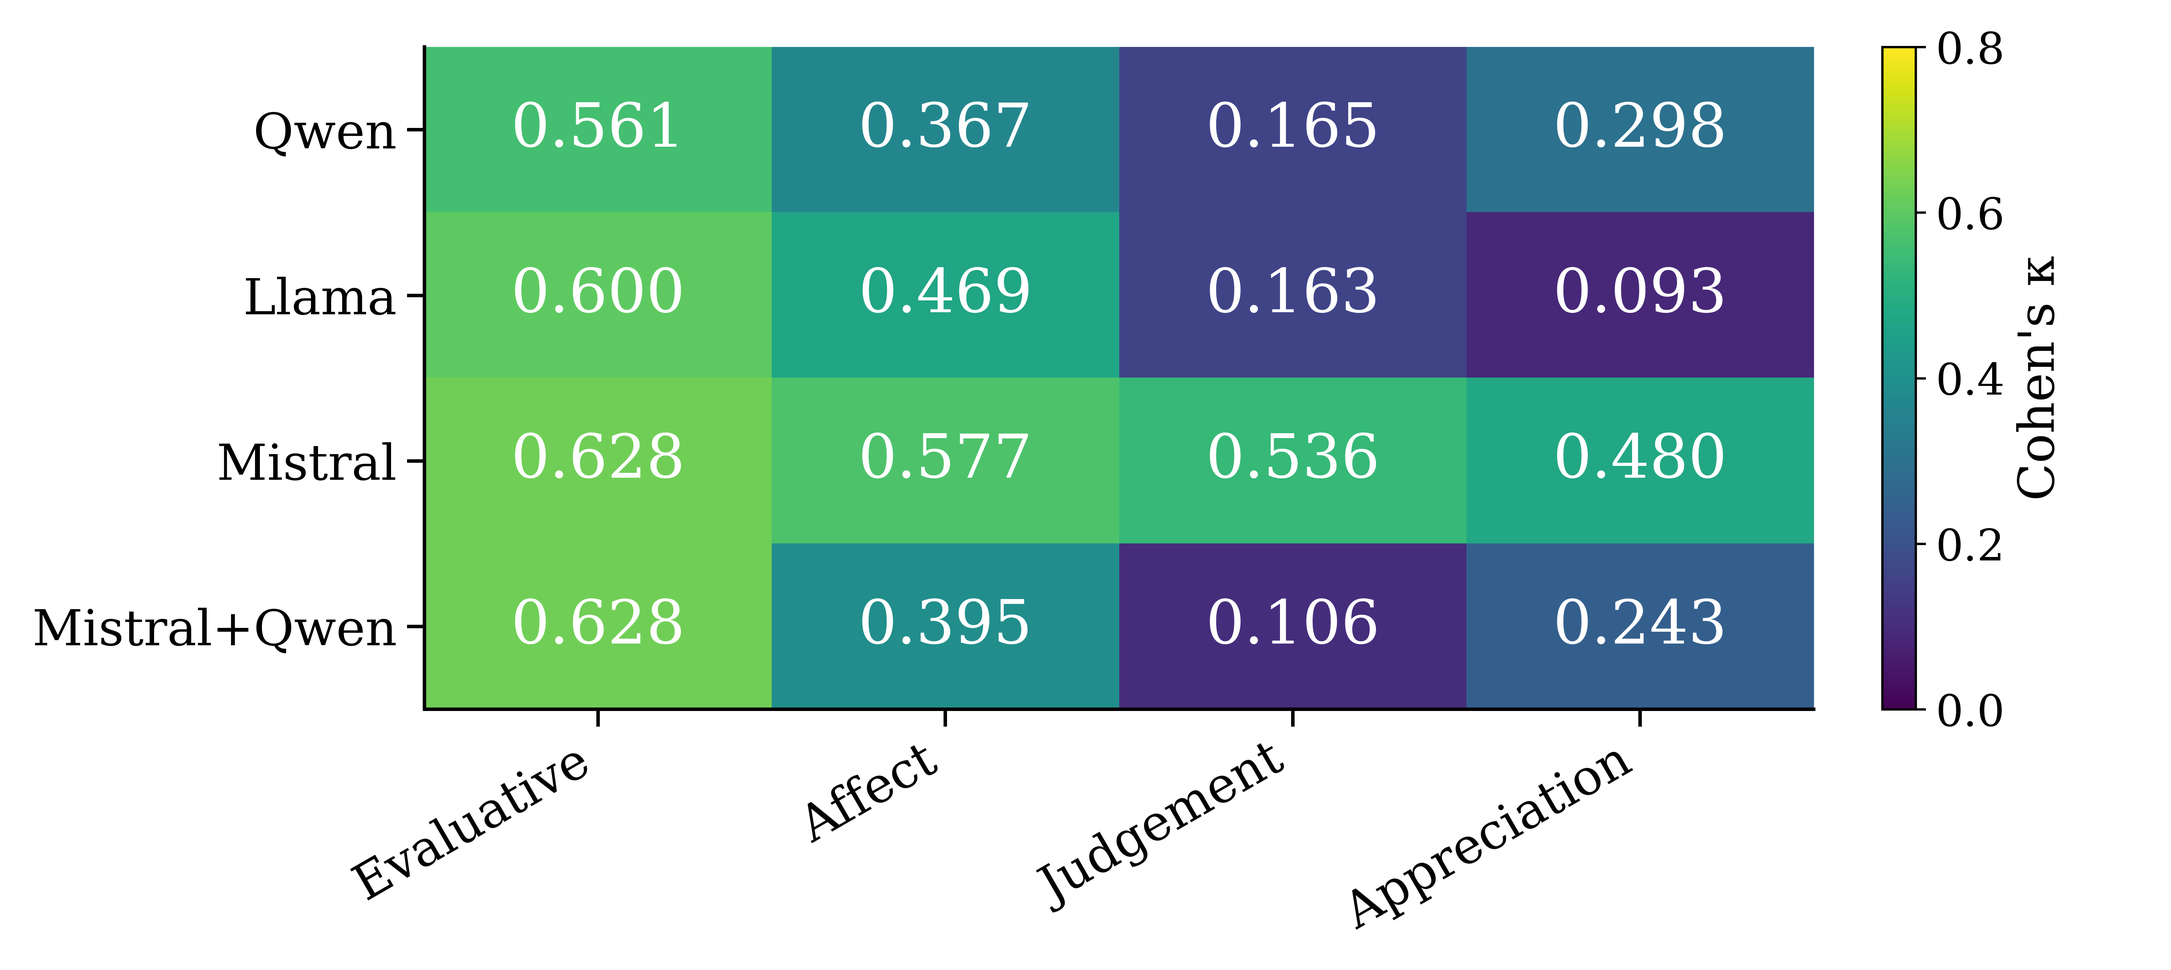
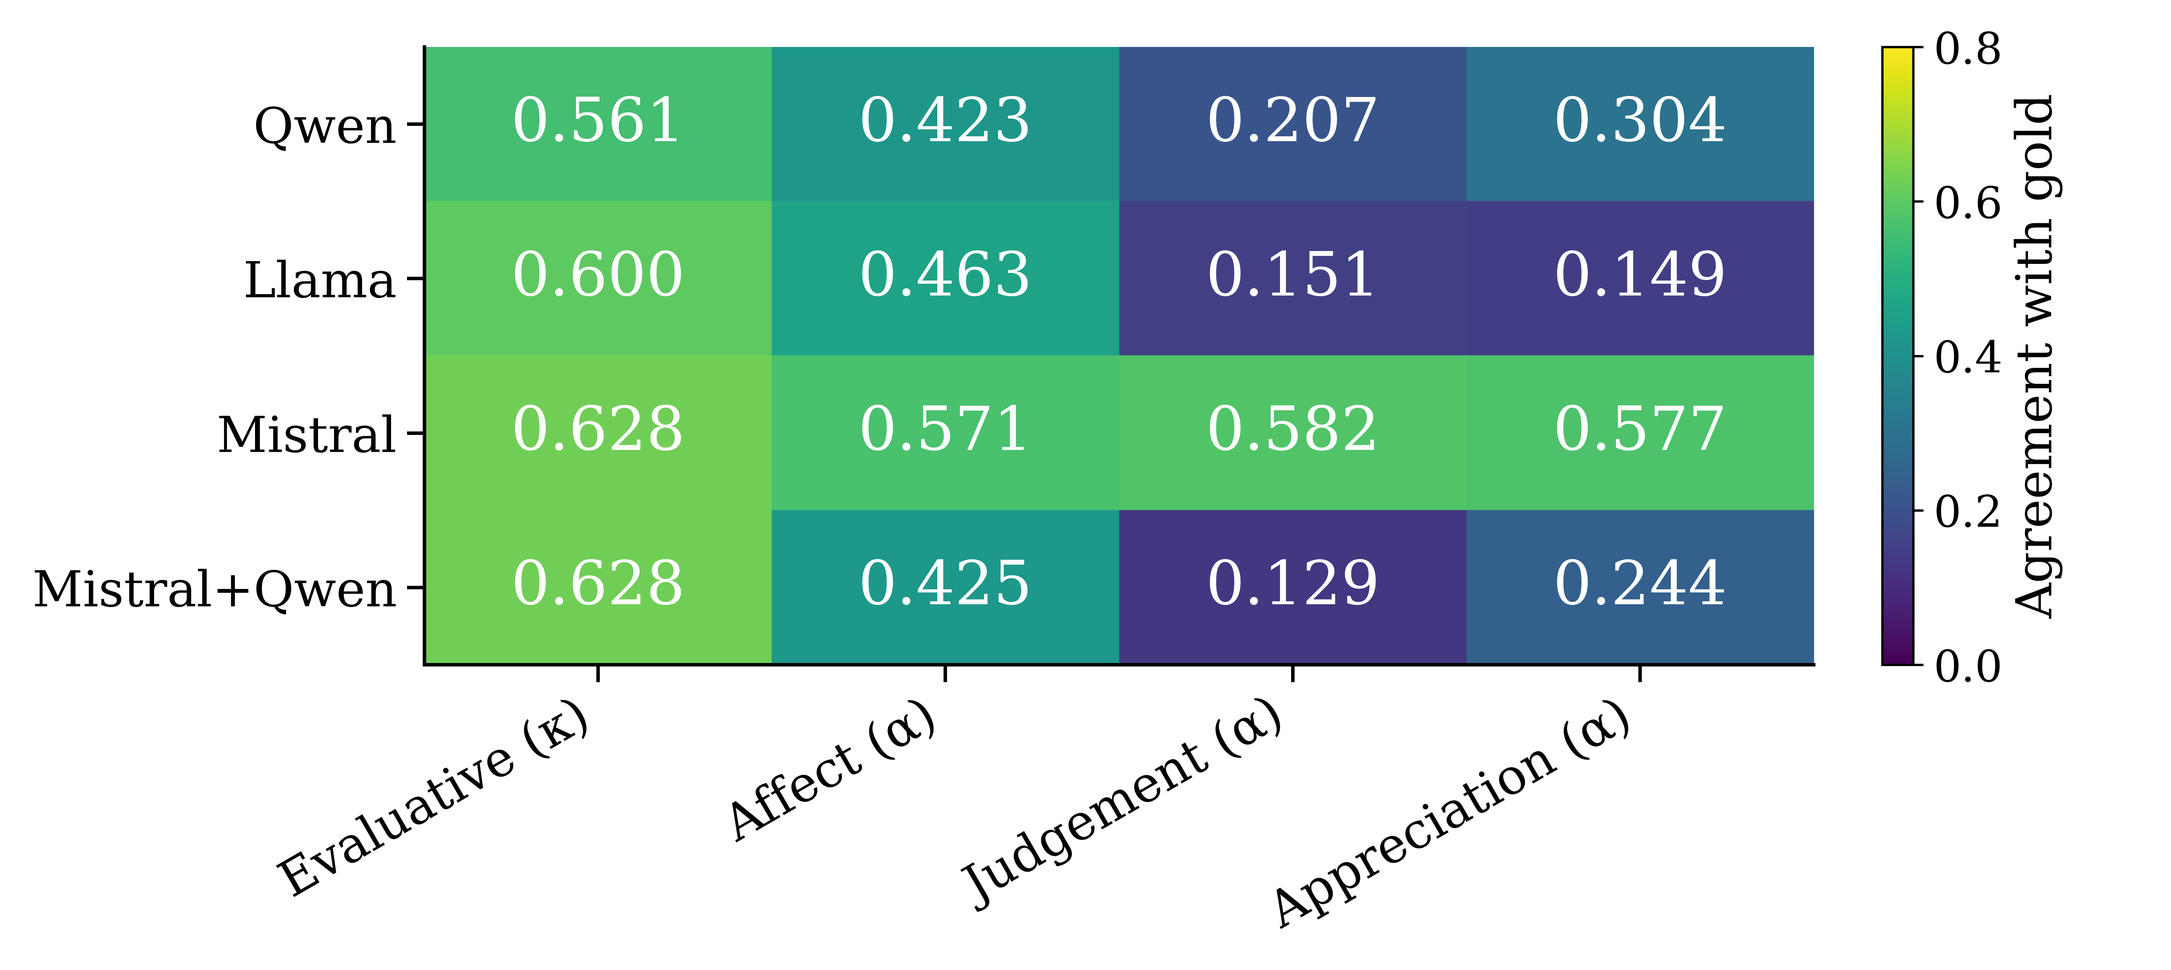
changed diagrams

diff --git a/Human_vs_LLM/human_vs_llm_agreement.py b/Human_vs_LLM/human_vs_llm_agreement.py
@@ -1,0 +1,158 @@
+"""
+Agreement between the linguists in training (students), the senior researcher (gold
+standard) and Llama-3.3-70B on the held-out test set (125 sentences, ambiguous removed).
+
+Measures as in the human annotation study:
+    Evaluative                           Cohen's kappa (and Krippendorff's alpha), all sentences
+    Affect / Judgement / Appreciation    Krippendorff's alpha (nominal), each as a yes / no label,
+                                         on the sentences BOTH raters of a pair call evaluative
+
+Every held-out sentence was annotated by 2 students (the two who annotated its talk).
+Pairs are pooled over all sentences:
+    Linguists in training                       student A vs student B             (1 pair per sentence)
+    Linguists in training and senior researcher each student vs gold                 (2 pairs per sentence)
+    Llama and linguists in training             Llama vs each student                (2 pairs per sentence)
+    Llama and senior researcher                 Llama vs gold                        (1 pair per sentence)
+Sentences a student marked "Uncertain" are left out for that student (as in the human study).
+
+Llama = the fine-tuned model (binary adapter, then appraisal adapter on the sentences it calls
+evaluative); the zero-shot model is reported as well.
+
+Usage:  python Human_vs_LLM/human_vs_llm_agreement.py      (needs xlrd for the two .xls files)
+Writes: Human_vs_LLM/outputs/agreement_heldout.csv and the heatmap.
+"""
+
+import glob
+import os
+import re
+import sys
+
+import numpy as np
+import pandas as pd
+from sklearn.metrics import cohen_kappa_score
+
+HERE = os.path.dirname(os.path.abspath(__file__))
+ROOT = os.path.dirname(HERE)
+sys.path.insert(0, ROOT)
+from make_result_figures import heatmap, krippendorff_alpha  # noqa: E402
+
+GOLD_CSV = os.path.join(ROOT, "Data", "gold_standard_with_context.csv")
+STUDENT_DIR = os.path.join(ROOT, "Data", "Students data")
+FT_OUT = os.path.join(ROOT, "Finetuning", "outputs")
+OUT_DIR = os.path.join(HERE, "outputs")
+
+KEYS = ["Text_ID", "Sentence_ID"]
+COLS = ["Evaluative", "Affect", "Judgement", "Appreciation"]
+CATS = {"Affect": "affect", "Judgement": "judgment", "Appreciation": "appreciation"}
+LLAMA = {"finetuned": "Llama-3.3-70B fine-tuned", "zeroshot": "Llama-3.3-70B zero-shot"}
+
+# ==========================
+# RATERS (one 0/1 table each, indexed by sentence)
+# ==========================
+
+def test_sentences():
+    """The 125 held-out test sentences (ambiguous removed), the same as in Finetuning."""
+    split = pd.read_csv(os.path.join(FT_OUT, "ft_split.csv"), encoding="utf-8-sig")
+    return split.loc[split["ft_split"] == "test", KEYS]
+
+
+def gold_labels(test):
+    gold = pd.read_csv(GOLD_CSV, encoding="utf-8-sig").merge(test, on=KEYS)
+    gold[COLS] = gold[COLS].fillna(0).astype(int)
+    return gold.set_index(KEYS)[COLS]
+
+
+def llama_labels(setup):
+    pred = pd.read_csv(os.path.join(FT_OUT, f"test_{setup}", "predictions.csv"), encoding="utf-8-sig")
+    out = pd.DataFrame({"Evaluative": pred["pred_binary"].fillna(-1).astype(int)})  # -1 = unreadable
+    for col, cat in CATS.items():
+        out[col] = ((pred["pred_binary"] == 1) & (pred["pred_category"] == cat)).astype(int)
+    out.index = pd.MultiIndex.from_frame(pred[KEYS])
+    return out
+
+
+def student_labels():
+    """{talk: {student: labels}}; a student's 'Uncertain' sentences are dropped."""
+    talks = {}
+    for path in sorted(glob.glob(os.path.join(STUDENT_DIR, "*.xls*"))):
+        m = re.match(r"([A-Za-z]+)_?(\d+)_(A\d+)", os.path.basename(path))  # e.g. Art5_A15, Pol_2_A3
+        talk, student = m.group(1) + m.group(2), m.group(3)
+        df = pd.read_excel(path)
+        for c in [c for c in df.columns if c.lower() == "uncertain"]:
+            df = df[df[c] != 1]
+        df["Text_ID"] = df["Text_ID"].astype(str).str.replace("_", "")
+        df[COLS] = df[COLS].fillna(0).astype(int)
+        talks.setdefault(talk, {})[student] = df.drop_duplicates(KEYS).set_index(KEYS)[COLS]
+    return talks
+
+# ==========================
+# AGREEMENT
+# ==========================
+
+def agreement(pairs):
+    """pairs: list of (labels_a, labels_b) row pairs (Series over COLS), pooled into one score."""
+    a = pd.DataFrame([p[0] for p in pairs]).reset_index(drop=True)
+    b = pd.DataFrame([p[1] for p in pairs]).reset_index(drop=True)
+    row = {"pairs": len(a),
+           "Evaluative (kappa)": cohen_kappa_score(a["Evaluative"].astype(str), b["Evaluative"].astype(str)),
+           "Evaluative (alpha)": krippendorff_alpha(a["Evaluative"], b["Evaluative"])}
+    both = (a["Evaluative"] == 1) & (b["Evaluative"] == 1)
+    row["pairs_both_evaluative"] = int(both.sum())
+    for col in CATS:
+        row[f"{col} (alpha)"] = krippendorff_alpha(a.loc[both, col], b.loc[both, col])
+    return row
+
+
+def main():
+    test = test_sentences()
+    gold = gold_labels(test)
+    talks = student_labels()
+    llama = {k: llama_labels(k) for k in LLAMA}
+
+    # students of each sentence (the two who annotated its talk); skip a student without that sentence
+    def students_of(key):
+        talk = key[0].rstrip(".")
+        return [s.loc[key] for s in talks[talk].values() if key in s.index]
+
+    missing = sum(2 - len(students_of(k)) for k in gold.index)
+    comparisons = {"Linguists in training": [], "Linguists in training and senior researcher": []}
+    for k in LLAMA:
+        comparisons[f"{LLAMA[k]} and linguists in training"] = []
+        comparisons[f"{LLAMA[k]} and senior researcher"] = []
+
+    for key in gold.index:
+        studs = students_of(key)
+        g = gold.loc[key]
+        if len(studs) == 2:
+            comparisons["Linguists in training"].append((studs[0], studs[1]))
+        for s in studs:
+            comparisons["Linguists in training and senior researcher"].append((s, g))
+        for k, pred in llama.items():
+            m = pred.loc[key]
+            comparisons[f"{LLAMA[k]} and senior researcher"].append((m, g))
+            for s in studs:
+                comparisons[f"{LLAMA[k]} and linguists in training"].append((m, s))
+
+    table = pd.DataFrame([{"comparison": name, **agreement(pairs)} for name, pairs in comparisons.items()])
+    os.makedirs(OUT_DIR, exist_ok=True)
+    path = os.path.join(OUT_DIR, "agreement_heldout.csv")
+    table.round(3).to_csv(path, index=False, encoding="utf-8-sig")
+    print(f"{len(gold)} held-out sentences; {missing} student labels missing (Uncertain)")
+    print(table.round(3).to_string(index=False))
+    print(f"[SAVED] {os.path.relpath(path, ROOT)}")
+
+    # heatmap: the four rows of the paper's table, with the fine-tuned Llama
+    rows = ["Linguists in training", "Linguists in training and senior researcher",
+            f"{LLAMA['finetuned']} and linguists in training", f"{LLAMA['finetuned']} and senior researcher"]
+    labels = ["Linguists in training", "Linguists in training\n& senior researcher",
+              "Fine-tuned Llama &\nlinguists in training", "Fine-tuned Llama &\nsenior researcher"]
+    cols = ["Evaluative (kappa)"] + [f"{c} (alpha)" for c in CATS]
+    values = table.set_index("comparison").loc[rows, cols].to_numpy(dtype=float)
+    heatmap(values, labels, ["Evaluative (κ)"] + [f"{c} (α)" for c in CATS],
+            os.path.join(OUT_DIR, "Heatmap for the agreement between linguists in training, senior researcher "
+                                  "and fine-tuned Llama-3.3-70B (held-out test).png"),
+            vmin=0.0, vmax=0.8, label="Agreement")
+
+
+if __name__ == "__main__":
+    main()

diff --git a/make_result_figures.py b/make_result_figures.py
@@ -36,14 +36,16 @@ MODELS = {
 }
 FINETUNED = ("llama-3.3-70b-instruct (fine-tuned)", "Llama-3.3-70B fine-tuned", "#8172B2", "..")
 # first two words of the step names in the result files -> axis label
-STEP_NAMES = {"1 binary": "Evaluative\n(binary)", "2 appraisal": "Subclasses\n(model-evaluative)",
-              "combined binary": "Combined\n(binary + appraisal)"}
+STEP_NAMES = {"1 binary": "Evaluative\n(binary)", "2 appraisal": "Subclasses\n(Attitude subsystem)",
+              "combined binary": "Combined\n(binary + Attitude subsystem)"}
 SETUPS = {  # fine-tuning comparison
     "zeroshot": ("Zero-shot", "#55A868", "\\\\"),
     "finetuned": ("Fine-tuned", "#8172B2", ".."),
 }
 CATEGORIES = ["affect", "judgment", "appreciation"]
 CAT_NAMES = ["Affect", "Judgement", "Appreciation"]
+# heatmap columns: the same measures as the human agreement study
+AGREEMENT_COLS = ["Evaluative (κ)"] + [f"{c} (α)" for c in CAT_NAMES]
 BINARY_PROMPT, APPRAISAL_PROMPT = "V3", "V2"
 DPI = 600
 
@@ -200,13 +202,14 @@ def heldout_test():
                  "F1-score", os.path.join(OUT_PROMPT, f"Held-out test results for the subclasses Affect, Judgement, and Appreciation (prompt {APPRAISAL_PROMPT}).png"),
                  legend_loc="above" if combos else "upper right")
 
-    # agreement with the gold standard
-    kappa = np.array([[res.loc[("1 binary", m), "cohen_kappa"]]
-                      + [res.loc[("2 appraisal", m), f"kappa_{c}"] for c in CATEGORIES] for m in models + combos])
-    heatmap(kappa, [MODELS[m][1] for m in models]
-            + ["+".join(MODELS[x][1] for x in c.split(" + ")) for c in combos], ["Evaluative"] + CAT_NAMES,
+    # agreement with the gold standard, as in the human study: Cohen's kappa for Evaluative,
+    # Krippendorff's alpha per subclass on the sentences both gold and model call evaluative
+    agreement = np.array([[res.loc[("1 binary", m), "cohen_kappa"]]
+                          + [res.loc[("2 appraisal", m), f"alpha_{c}"] for c in CATEGORIES] for m in models + combos])
+    heatmap(agreement, [MODELS[m][1] for m in models]
+            + ["+".join(MODELS[x][1] for x in c.split(" + ")) for c in combos], AGREEMENT_COLS,
             os.path.join(OUT_PROMPT, "Heatmap for the agreement between gold standard and LLMs (held-out test).png"),
-            vmin=0.0, vmax=0.8)
+            vmin=0.0, vmax=0.8, label="Agreement with gold")
 
     # table: scores + significance against the best zero-shot model of each step
     sig = pd.read_csv(os.path.join(HELDOUT, "heldout_significance.csv"))
@@ -255,11 +258,27 @@ def binary_metrics(df):
             "kappa_evaluative": cohen_kappa_score(gold, pred)}
 
 
-def category_kappas(df):
-    """One-vs-rest kappa per subclass on the sentences the model called evaluative (step 2)."""
-    passed = df[df["pred_binary"] == 1]
-    gold, pred = passed["label4"].fillna("none"), passed["pred_category"].fillna("invalid")
-    return {f"kappa_{c}": cohen_kappa_score(gold == c, pred == c) for c in CATEGORIES}
+def krippendorff_alpha(a, b):
+    """Krippendorff's alpha (nominal), two raters, no missing values."""
+    a, b = np.asarray(a).astype(str), np.asarray(b).astype(str)
+    labels = np.unique(np.concatenate([a, b]))
+    if len(labels) < 2:
+        return 1.0
+    idx = {l: i for i, l in enumerate(labels)}
+    o = np.zeros((len(labels), len(labels)))
+    for x, y in zip(a, b):
+        o[idx[x], idx[y]] += 1
+        o[idx[y], idx[x]] += 1
+    n_c = o.sum(axis=1)
+    n = n_c.sum()
+    return 1 - (n - 1) * (o.sum() - np.trace(o)) / (n ** 2 - (n_c ** 2).sum())
+
+
+def category_alphas(df):
+    """Krippendorff's alpha per subclass on the sentences both gold and model call evaluative."""
+    both = df[(df["pred_binary"] == 1) & (df["Evaluative"] == 1)]
+    gold, pred = both["label4"].fillna("none"), both["pred_category"].fillna("invalid")
+    return {f"alpha_{c}": krippendorff_alpha(gold == c, pred == c) for c in CATEGORIES}
 
 
 def fine_tuning():
@@ -283,7 +302,7 @@ def fine_tuning():
                      pvalues=pvals if metric == "macro_f1" else None)
 
     preds = {k: ft_predictions(k) for k in SETUPS}
-    extra = {k: {**binary_metrics(d), **category_kappas(d)} for k, d in preds.items()}
+    extra = {k: {**binary_metrics(d), **category_alphas(d)} for k, d in preds.items()}
 
     # binary: same four metrics as the evaluative-class figure
     metrics = [("accuracy", "Accuracy"), ("precision_eval", "Precision (eval)"),
@@ -299,11 +318,12 @@ def fine_tuning():
                   for k, (lab, col, hat) in SETUPS.items()],
                  "F1-score", os.path.join(OUT_FT, "Fine-tuning results for the subclasses Affect, Judgement, and Appreciation.png"))
 
-    # agreement heatmap
-    kappa = np.array([[extra[k]["kappa_evaluative"]] + [extra[k][f"kappa_{c}"] for c in CATEGORIES] for k in SETUPS])
-    heatmap(kappa, [lab for lab, _, _ in SETUPS.values()], ["Evaluative"] + CAT_NAMES,
+    # agreement heatmap (Cohen's kappa for Evaluative, Krippendorff's alpha per subclass)
+    agreement = np.array([[extra[k]["kappa_evaluative"]] + [extra[k][f"alpha_{c}"] for c in CATEGORIES]
+                          for k in SETUPS])
+    heatmap(agreement, [lab for lab, _, _ in SETUPS.values()], AGREEMENT_COLS,
             os.path.join(OUT_FT, "Heatmap for the agreement between gold standard and Llama-3.3-70B (zero-shot vs fine-tuned).png"),
-            vmin=0.2, vmax=0.8)
+            vmin=0.0, vmax=0.8, label="Agreement with gold")
 
     # validation macro-F1 per epoch (best epoch is kept)
     fig, ax = plt.subplots(figsize=(6.2, 3.45))

diff --git a/Prompting/Heldout_pipeline/heldout_pipeline.py b/Prompting/Heldout_pipeline/heldout_pipeline.py
@@ -317,6 +317,12 @@ def evaluate(pred_dir=OUT_DIR, out_dir=None):
             row = {"step": step, "model": model, **step_scores(part[g], part[p], labels)}
             if step == STEP_2:
                 row["gold_noneval"] = int((part["Evaluative"] == 0).sum())
+                # agreement per subclass as in the human annotation study: Krippendorff's alpha
+                # on the sentences that both the gold standard and the model call evaluative
+                both = part[part["Evaluative"] == 1]
+                row["n_both_eval"] = len(both)
+                for c in CATEGORIES:
+                    row[f"alpha_{c}"] = krippendorff_alpha(both["category"] == c, both["pred_category"] == c)
             rows.append(row)
     metrics = pd.DataFrame(rows)
 
@@ -360,7 +366,7 @@ def evaluate(pred_dir=OUT_DIR, out_dir=None):
              f"appraisal {APPRAISAL_PROMPT}, zero-shot ===", "",
              metrics[main_cols].round(3).to_string(index=False), "",
              "Per class", metrics[["step", "model"] + [c for c in metrics.columns
-                                                     if c.startswith(("f1_", "kappa_"))]]
+                                                     if c.startswith(("f1_", "kappa_", "alpha_"))]]
              .round(3).to_string(index=False), "",
              "=== Significance between zero-shot models (paired, same sentences; Holm within: single models, and each combination vs the single models) ===",
              tests.round(4).to_string(index=False), "",

diff --git a/Human_vs_LLM/README.md b/Human_vs_LLM/README.md
@@ -1,0 +1,75 @@
+# Humans vs LLM: agreement on the held-out test set
+
+How well do the linguists in training, the senior researcher (gold standard) and Llama-3.3-70B agree with each other,
+**on the held-out test data only**?
+
+## Data
+
+- **125 held-out sentences**: the 30% test split, with ambiguous sentences removed (54 non-evaluative,
+  71 evaluative: 9 Affect, 33 Judgement, 29 Appreciation). These are the same sentences as in `Finetuning/` and `Prompting/Heldout_pipeline/`.
+- **Linguists in training**: every sentence was annotated by the **2 students** who annotated its talk
+  (`Data/Students data/`, 22 students, 2 per talk). As in the human study, a sentence a student marked *Uncertain*
+  is left out for that student (5 student labels).
+- **Senior researcher**: the gold standard (`Data/gold_standard_with_context.csv`).
+- **Llama**: Llama-3.3-70B **fine-tuned** with QLoRA. Its binary step labels all sentences, then its appraisal step labels
+  the sentences it called evaluative (`Finetuning/outputs/test_finetuned/predictions.csv`).
+  Zero-shot Llama is also in the CSV.
+
+## Method
+
+The same measures as the human annotation study:
+
+- **Evaluative**: Cohen's κ on all sentences. Krippendorff's α is also in the CSV and is nearly identical.
+- **Affect, Judgement, Appreciation**: Krippendorff's α (nominal), each category as a yes / no label, on the
+  sentences that **both** raters of a pair call evaluative.
+
+The two students of a sentence are different people for different talks, so the pairs are **pooled** over all sentences:
+
+| Row | Pairs | Number of pairs | Both call it evaluative |
+|---|---|---|---|
+| Linguists in training | student A vs student B of the same talk | 120 | 43 |
+| Linguists in training & senior researcher | each student vs gold | 245 | 98 |
+| Fine-tuned Llama & linguists in training | Llama vs each student | 245 | 105 |
+| Fine-tuned Llama & senior researcher | Llama vs gold | 125 | 65 |
+
+## Results (held-out test, fine-tuned Llama)
+
+| | Evaluative (κ) | Affect (α) | Judgement (α) | Appreciation (α) |
+|---|---|---|---|---|
+| Linguists in training | 0.27 | 0.39 | 0.04 | 0.40 |
+| Linguists in training and senior researcher | 0.38 | 0.37 | 0.18 | 0.27 |
+| Fine-tuned Llama and linguists in training | 0.36 | 0.46 | 0.34 | 0.31 |
+| **Fine-tuned Llama and senior researcher** | **0.67** | **0.46** | **0.47** | **0.39** |
+
+![Heatmap](outputs/Heatmap%20for%20the%20agreement%20between%20linguists%20in%20training,%20senior%20researcher%20and%20fine-tuned%20Llama-3.3-70B%20(held-out%20test).png)
+
+Zero-shot Llama, for comparison:
+
+| | Evaluative (κ) | Affect (α) | Judgement (α) | Appreciation (α) |
+|---|---|---|---|---|
+| Llama zero-shot and linguists in training | 0.41 | 0.45 | 0.24 | 0.27 |
+| Llama zero-shot and senior researcher | 0.62 | 0.47 | 0.38 | 0.24 |
+
+**Reading the table**
+- Llama agrees with the senior researcher much more than the students do, for every category. On Evaluative κ it is
+  0.67 vs 0.38 for the students.
+- Llama agrees with the students about as well as the students agree with the senior researcher, and on Judgement better (0.34 vs 0.18).
+- **Judgement** is the hardest category for the students (0.04 between students, 0.18 with the senior researcher).
+- The numbers are based on few sentences, especially for the subclasses (43–105 pairs), so small differences should not be over-interpreted.
+
+**Note on the full-data table:** the paper's values for all 440 sentences (students: 0.38 / 0.23 / 0.19 / 0.20;
+students and senior researcher: 0.30 / 0.25 / 0.16 / 0.25) average over the 22 students instead of pooling the pairs.
+For the students and senior researcher row, its Evaluative value matches the mean Krippendorff's α (0.30), not κ (0.33).
+The held-out table above is pooled because each student has only ~12 held-out sentences.
+
+## Files
+
+| File | Content |
+|---|---|
+| `human_vs_llm_agreement.py` | The analysis (needs `xlrd` to read the two `.xls` student files) |
+| `outputs/agreement_heldout.csv` | All rows (fine-tuned and zero-shot Llama), with κ and α for Evaluative and the number of pairs |
+| `outputs/Heatmap ... (held-out test).png` | The heatmap above |
+
+```bash
+python Human_vs_LLM/human_vs_llm_agreement.py
+```

diff --git a/Prompting/Heldout_pipeline/README.md b/Prompting/Heldout_pipeline/README.md
@@ -40,6 +40,23 @@ Significance (paired randomization and McNemar tests, Holm-corrected):
 - Combined: Mistral beats Llama (+0.134) and Qwen (+0.136), randomization p = 0.037 for both;
   McNemar p = 0.087 for both.
 
+### Agreement with the gold standard (heatmap)
+
+Measured as in the human annotation study: **Cohen's κ** for Evaluative (all 125 sentences) and **Krippendorff's α**
+(nominal) for each subclass, computed on the sentences that **both** the gold standard and the model call evaluative.
+Each subclass is scored as a yes / no label.
+
+| Model | Both evaluative (n) | Evaluative κ | Affect α | Judgement α | Appreciation α |
+|---|---|---|---|---|---|
+| Qwen3-30B | 57 | 0.561 | 0.423 | 0.207 | 0.304 |
+| Llama-3.3-70B | 54 | 0.600 | 0.463 | 0.151 | 0.149 |
+| **Mistral-Large** | 58 | **0.628** | **0.571** | **0.582** | **0.577** |
+| Mistral (binary) + Qwen (appraisal) | 58 | 0.628 | 0.425 | 0.129 | 0.244 |
+| Llama-3.3-70B fine-tuned | 65 | 0.668 | 0.457 | 0.473 | 0.392 |
+
+These are the `cohen_kappa` (step 1) and `alpha_*` / `n_both_eval` (step 2) columns of `heldout_metrics.csv`. The `kappa_*`
+columns there are one-vs-rest Cohen's κ on every sentence the model called evaluative, including gold non-evaluative ones.
+
 ## Files
 
 | File | Content |

diff --git a/README.md b/README.md
@@ -21,6 +21,7 @@ and Llama-3.3-70B-Instruct fine-tuned with QLoRA.
 | [Data/](Data/) | The gold standard (440 sentences, senior researcher's labels) with the previous / next sentence as context |
 | [Prompting/](Prompting/) | Zero-shot prompt selection (3 prompts x 3 models) on 70% of the data, then the final test of the winning prompts on the held-out 30% |
 | [Finetuning/](Finetuning/) | QLoRA fine-tuning of Llama-3.3-70B on the same 70% and its test on the same held-out 30% |
+| [Human_vs_LLM/](Human_vs_LLM/) | Agreement between linguists in training, the senior researcher and fine-tuned Llama on the held-out test set (Cohen's κ / Krippendorff's α + heatmap) |
 | [make_result_figures.py](make_result_figures.py) | Builds every figure and summary table in `Prompting/Figures/` and `Finetuning/Figures/` from the saved results |
 
 Each experiment folder has its own README with the exact number of sentences used.
